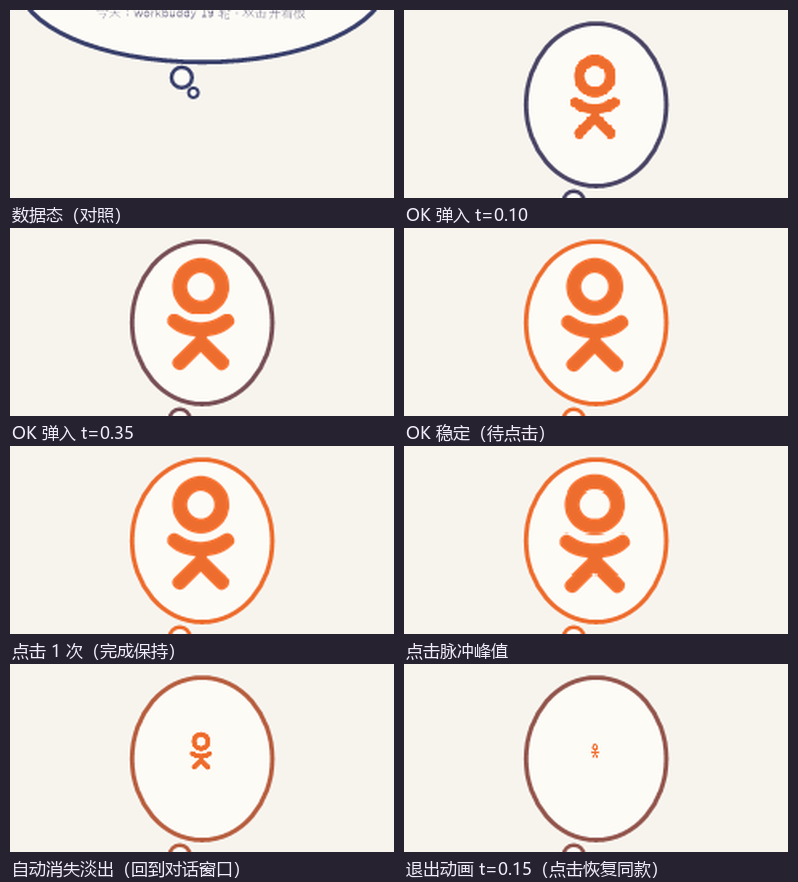
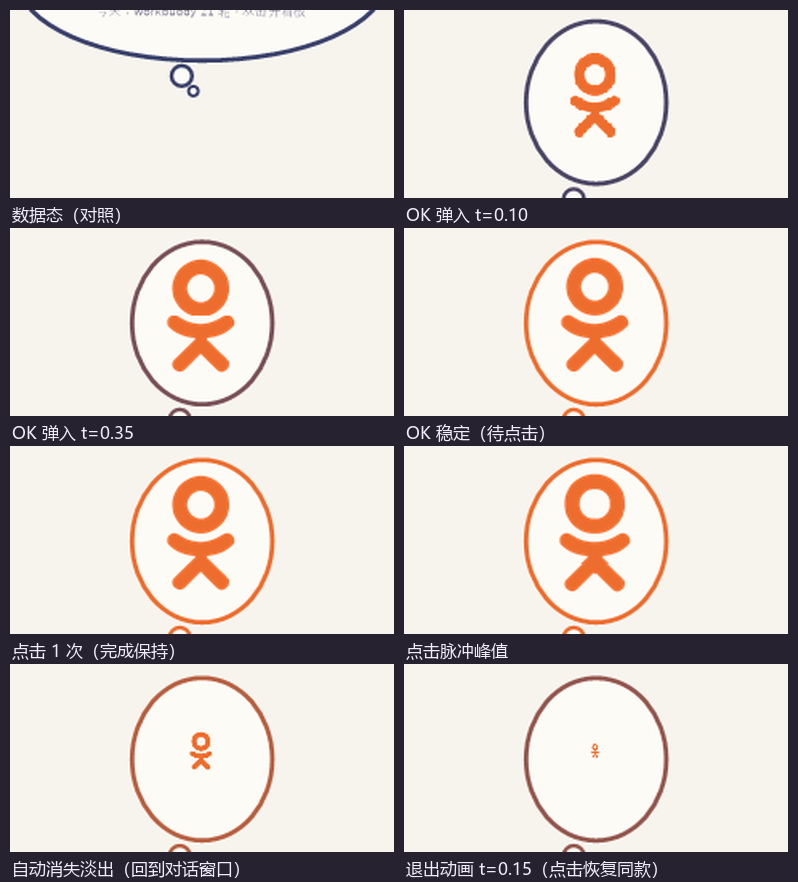
feat(pet): 形态尺寸归一 + 切换缓入 —— 消除点击换姿势时的"忽大忽小"
用户要求：统一各形态的显示大小，消除形态切换导致的忽大忽小，并让过渡自然。

## 根因（实测，不是感觉）

v3 八态共用一张画布，构建期只做到「**脸宽一致**」，**姿势本身的高低从来没管过**。
实测屏幕内容高（真实像素）：

    idle 175 · happy 258 · joy 237 · pout 186 · shy 175 · blush 159 · stone 139 · surprise 175

极差 **1.86×**。更糟的是 `_draw_state_fade` 有个**溶解闸门**：8 个姿势的局部差异
78~218 远超阈值 60 → 判定"硬切"（避免两张脸叠成双重曝光）。
**硬切 + 尺寸差 = 突跳**，这就是用户看到的"忽大忽小"。

## 改动（`wb_whale_win.py` + `wb_motion.py`）

1. `_state_size(state)`：把「视觉大小」√(w·h) 往全体平均值拉 `SIZE_NORM_ALPHA` 倍
   （内容框是归一化坐标，宽要乘画布宽高比才和高度同一物理尺度）。
2. `_size_factor(state, now)`：换形态时尺寸**缓入**（`SIZE_MORPH_S`）。
   硬切改不了（那是刻意的），但把"尺寸"这一维单独做平滑 ——
   观感从"啪地换了张图"变成"她站起来了 / 坐下了"。
3. `_build_sprite_cache`：每个形态按**自己的系数**预缩放。
4. 缓存命中容差 ±2px → `max(2px, 16%)`：覆盖尺寸过渡那几帧与悬停缩放
   （顺带修掉"悬停时一直命中不了缓存、每帧重采样"的隐性开销）。
5. `_blit_pet` 未命中缓存的分支：**同样应用视线/拖拽位移**，否则过渡那几帧会横向跳一下。

## 结果

| | 改造前 α=0 | 改造后 α=0.5 |
|---|---|---|
| 姿势高度极差 | 1.86× | **1.55×** |
| 脸部尺寸变化 | 1.00× | **1.20×** |

过渡：idle→happy 的系数 1.051→0.983→0.941→0.920→0.912→0.911（20 帧内单调缓入）。

### ⚠ 为什么 α 默认 0.5 而不是 1
三个目标**数学上不可能同时满足**（姿势宽高比本身就差 0.67~1.13）：
α=1 能做到高度差 1.30×，但**脸会变 1.45×** —— 一眼看出头在缩放，更廉价。
对 chibi 角色"头的大小"比"整体高度"更影响观感，所以**宁可保留部分高度差，也不动脸**。
（已渲染 α=0/0.5/1 三版对比确认；α 是 `MOTION.SIZE_NORM_ALPHA` 一个数就能调。）
真正的根治在美术：让八个姿势的**构图比例**接近，而不是靠运行时缩放硬拉。

## 验证

- 真实像素复核（关气泡、只量立绘本体）：139~258 → **152~235**，与预测一致
- 过渡单测：系数单调缓入，无瞬变
- 全套 **17 个测试 PASS**（含 `test_hit_regions` —— 命中区仍与画面严格对齐，
  因为命中区走 `_spr_rect` + 归一化内容框，缩放自动跟随）
- 桌宠已重启，启动无报错

文档：`docs/美术v3重构交接-2026-09-26.md` 新增「形态尺寸归一」一节（含上表与取舍理由）

diff --git a/app/wb_whale_win.py b/app/wb_whale_win.py
@@ -1015,6 +1015,13 @@ class WhalePet:
         # 自更新：后台检查结果缓存 + 是否在处理（网络全在后台线程，绝不进消息循环）
         self._update_info = None
         self._update_busy = False
+        # 形态尺寸归一 + 切换时的尺寸缓入（见 _state_size / _size_factor）
+        self._size_cache = {}
+        self._canvas_ar = 0.0
+        self._size_key = None
+        self._size_from = 1.0
+        self._size_now = 1.0
+        self._size_t0 = 0.0
         self.scale = float(self._settings.get("scale", 1.0))
         self.bubble_on = bool(self._settings.get("bubble", True))
         self.sound_on = bool(self._settings.get("sound", True))
@@ -1690,7 +1697,10 @@ class WhalePet:
         lay = self._layout()
         ph = lay["pet_h"] - 8 * lay["sc"]
         for key, (img, iw, ih) in self._sprites.items():
-            pw, phh = int(ph * iw / ih), int(ph)
+            # 每个形态按**自己的尺寸系数**预缩放（形态尺寸归一，见 _state_size）
+            st = key.split(".", 1)[1].replace("_f", "")
+            phh = int(ph * self._state_size(st))
+            pw = int(phh * iw / ih)
             if pw <= 0 or phh <= 0:
                 continue
             tmp = Surface(pw, phh)
@@ -3289,7 +3299,9 @@ class WhalePet:
         head_dx = self._gaze_dx + self._drag_tilt
         if cached is None:
             if img is not None:
-                s.image(img, x, y, w, h)
+                # 没命中预缩放缓存（尺寸过渡/极端缩放）：直接重采样，
+                # 但**同样要应用视线/拖拽位移**，否则那几帧立绘会横向跳一下
+                s.image(img, x + head_dx, y, w, h)
             return
         if abs(head_dx) < 0.2:
             s.blit(cached, x, y, w, h)         # 完全静止 → 1:1 整块，最快
@@ -3644,6 +3656,61 @@ class WhalePet:
             except Exception:
                 log_exception("[acc] 绘制")
 
+    # ---- 形态尺寸归一（点击换姿势时的"忽大忽小"）----
+
+    def _state_size(self, state):
+        """形态之间的**尺寸归一系数**（乘在立绘绘制高度上）。
+
+        为什么需要：v3 八态共用一张画布，构建期只归一到「脸宽一致」，
+        **姿势本身的高低没管** —— 实测屏幕上内容高 169px(stone) ~ 318px(happy)，差 1.88 倍。
+        点一下就换姿势，看着就是"忽大忽小"。
+
+        做法：把「视觉大小」（内容框的几何均值 √(w·h)）往全体平均值拉
+        `MOTION.SIZE_NORM_ALPHA` 倍：
+            0   = 不动（脸一致，姿势高度差 1.88×）
+            0.5 = 折中 —— 实测缩放只有 0.96~1.10（**脸最多变 10%**），高度差降到 1.56×
+            1   = 完全按视觉大小（高度差 1.30×，但**脸会变 1.45×**，一眼看得出头在缩放）
+
+        ⚠ 刻意不取 1：对 chibi 角色，"头的大小"比"整体高度"更影响观感，
+        脸跟着抖会显得廉价。要更彻底就调 MOTION.SIZE_NORM_ALPHA。
+        """
+        if not self._size_cache:
+            a = getattr(MOTION, "SIZE_NORM_ALPHA", 0.5)
+            boxes = getattr(self, "_spr_cbox", {}) or {}
+            ar = self._canvas_ar
+            if not ar and self._sprites:
+                spr = next(iter(self._sprites.values()))
+                ar = spr[1] / max(1, spr[2])          # 画布宽高比
+                self._canvas_ar = ar
+            ar = ar or 1.0
+            # 内容框是**归一化**坐标：宽要乘画布宽高比，才和高度在同一物理尺度上
+            gm = {st: (((b[2] - b[0]) * ar) * (b[3] - b[1])) ** 0.5
+                  for st, b in boxes.items() if len(b) >= 4}
+            if a <= 0 or len(gm) < 2:
+                self._size_cache = {st: 1.0 for st in gm}
+            else:
+                mean = sum(gm.values()) / len(gm)
+                self._size_cache = {st: (mean / g) ** a for st, g in gm.items()}
+        return self._size_cache.get(state, 1.0)
+
+    def _size_factor(self, state, now):
+        """带**尺寸过渡**的形态系数：换形态时从旧尺寸缓入新尺寸（SIZE_MORPH_S 内）。
+
+        为什么还要过渡：8 个姿势差异太大，`_draw_state_fade` 的**溶解闸门**会判定"硬切"
+        （避免两张脸叠成双重曝光）。硬切 + 尺寸差 = 突跳，所以这里单独把"尺寸"这一维做成缓入
+        —— 新姿势**长/缩到它该有的大小**，观感是"她站起来了"，而不是"啪地换了一张图"。
+        """
+        target = self._state_size(state)
+        if self._size_key != state:
+            self._size_from = self._size_now
+            self._size_key = state
+            self._size_t0 = now
+        dur = getattr(MOTION, "SIZE_MORPH_S", 0.2)
+        u = 1.0 if dur <= 0 else min(1.0, max(0.0, (now - self._size_t0) / dur))
+        self._size_now = (self._size_from
+                          + (target - self._size_from) * MOTION.ease_out_cubic(u))
+        return self._size_now
+
     def _draw_pet(self, s, lay):
         """立绘：状态选图（开心/文静/嘟嘴）+ 镜像 + 按压 Q 弹 + 摇摆 + 脸红 + 粒子。"""
         sc = lay["sc"]
@@ -3653,7 +3720,6 @@ class WhalePet:
         hover_s = 1.0 + (MOTION.HOVER_SCALE - 1.0) * MOTION.ease_out_cubic(self._hover_t)
         hover_s = min(hover_s, MOTION.SCALE_MAX)          # 提案 §5 克制上限
         sq = self._squash
-        ph_draw = ph * hover_s * sq
         # 压扁时横向补偿（squash & stretch，体积感）
         pw_ratio = min(1.0 + (1.0 - sq) * 0.7, MOTION.SCALE_MAX)
         if self._pressed:
@@ -3673,6 +3739,10 @@ class WhalePet:
             state = "pout"                  # 失败 = 委屈（不是怒容）
         else:
             state = "happy" if (self.active or self._in_talk()) else "idle"
+        # ---- 形态尺寸归一 × 尺寸过渡 ----
+        # 各姿势内容高差 1.88×（stone 169px vs happy 318px），点一下就换姿势；
+        # 不处理就是"忽大忽小"，硬切时还会突跳（见 _state_size / _size_factor）
+        ph_draw = ph * hover_s * sq * self._size_factor(state, now)
         facing = self._current_facing(now)  # 翻身覆盖 > 鼠标跟随 > 保持
         # 双版本 sprite key：'q.idle' / 'alt.idle' / 带 _f 后缀等
         style_prefix = getattr(self, "style", "q")
@@ -3706,7 +3776,7 @@ class WhalePet:
             cache_key = f"{style_prefix}.{state}{facing}"
             cached = (self._sprite_cache.get(cache_key)
                       or self._sprite_cache.get(f"{style_prefix}.{state}"))
-            if cached and abs(cached[2] - ph_draw) < 2:
+            if cached and abs(cached[2] - ph_draw) <= max(2.0, ph_draw * 0.16):
                 self._blit_pet(s, cached[0], img, x, y_bottom - ph_draw, pw, ph_draw)
             else:
                 self._blit_pet(s, None, img, x, y_bottom - ph_draw, pw, ph_draw)

diff --git a/app/wb_motion.py b/app/wb_motion.py
@@ -180,6 +180,21 @@ GAZE_LERP = 0.18                      # 每帧向目标插值比例
 GAZE_RECT_W = 443
 GAZE_RECT_H = 465
 
+# ---- 形态尺寸归一（解决"点击换姿势时忽大忽小"）----
+# 背景：v3 八态共用一张画布，构建期只归一到「脸宽一致」，**姿势本身的高低没管**。
+#       实测屏幕上内容高 stone 169px ~ happy 318px，差 1.88 倍；点一下就换姿势 →
+#       看着就是"忽大忽小"，而且硬切（溶解闸门判定姿势差异过大）时更是突跳。
+# 做法：把「视觉大小」√(w·h) 往全体平均值拉 SIZE_NORM_ALPHA 倍。
+#   0   = 不动（脸一致，姿势高度差 1.88×）
+#   0.5 = 折中：实测缩放系数只有 0.96~1.10（**脸最多变 10%**），高度差降到 1.56× ← 默认
+#   1   = 完全按视觉大小（高度差 1.30×，但**脸会变 1.45×**，一眼看得出头在缩放）
+# ⚠ 刻意不取 1：chibi 角色的"头大小"比"整体高度"更影响观感，脸跟着抖会显得廉价。
+SIZE_NORM_ALPHA = 0.5
+
+# 换形态时尺寸的缓入时长（秒）。硬切时靠它把"尺寸突跳"变成"长到该有的大小"，
+# 观感从"啪地换了张图"变成"她站起来了 / 坐下了"。
+SIZE_MORPH_S = 0.20
+
 DRAG_TILT_MAX_PX = 6.0                # 拖拽倾斜上限（提案 ≤8° 对应像素）
 DRAG_TILT_HEAD_RATIO = 0.55           # 头部剪切在身体上方的占比
 
